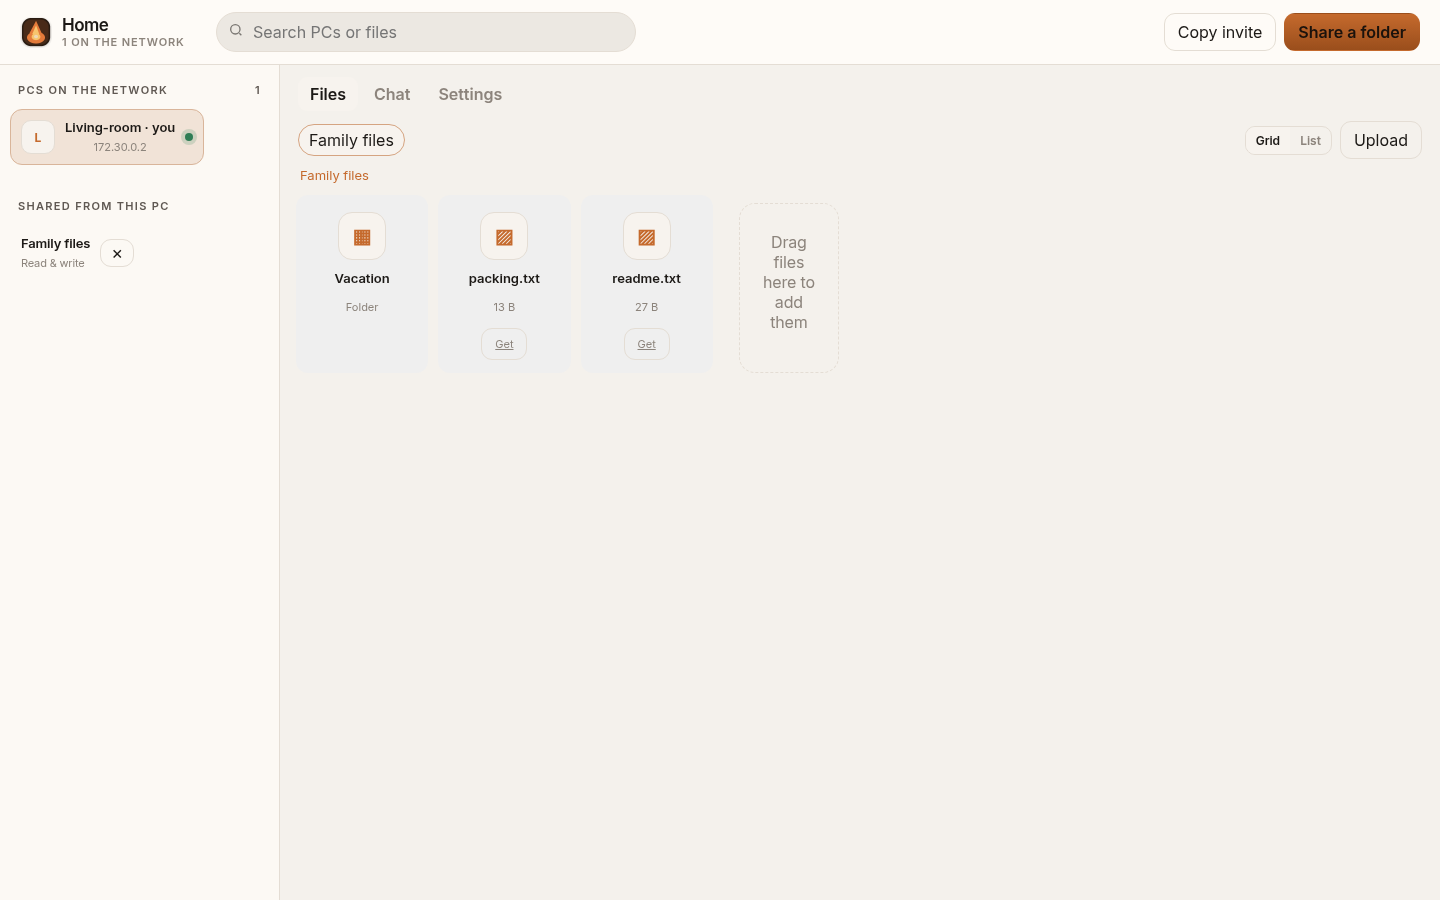
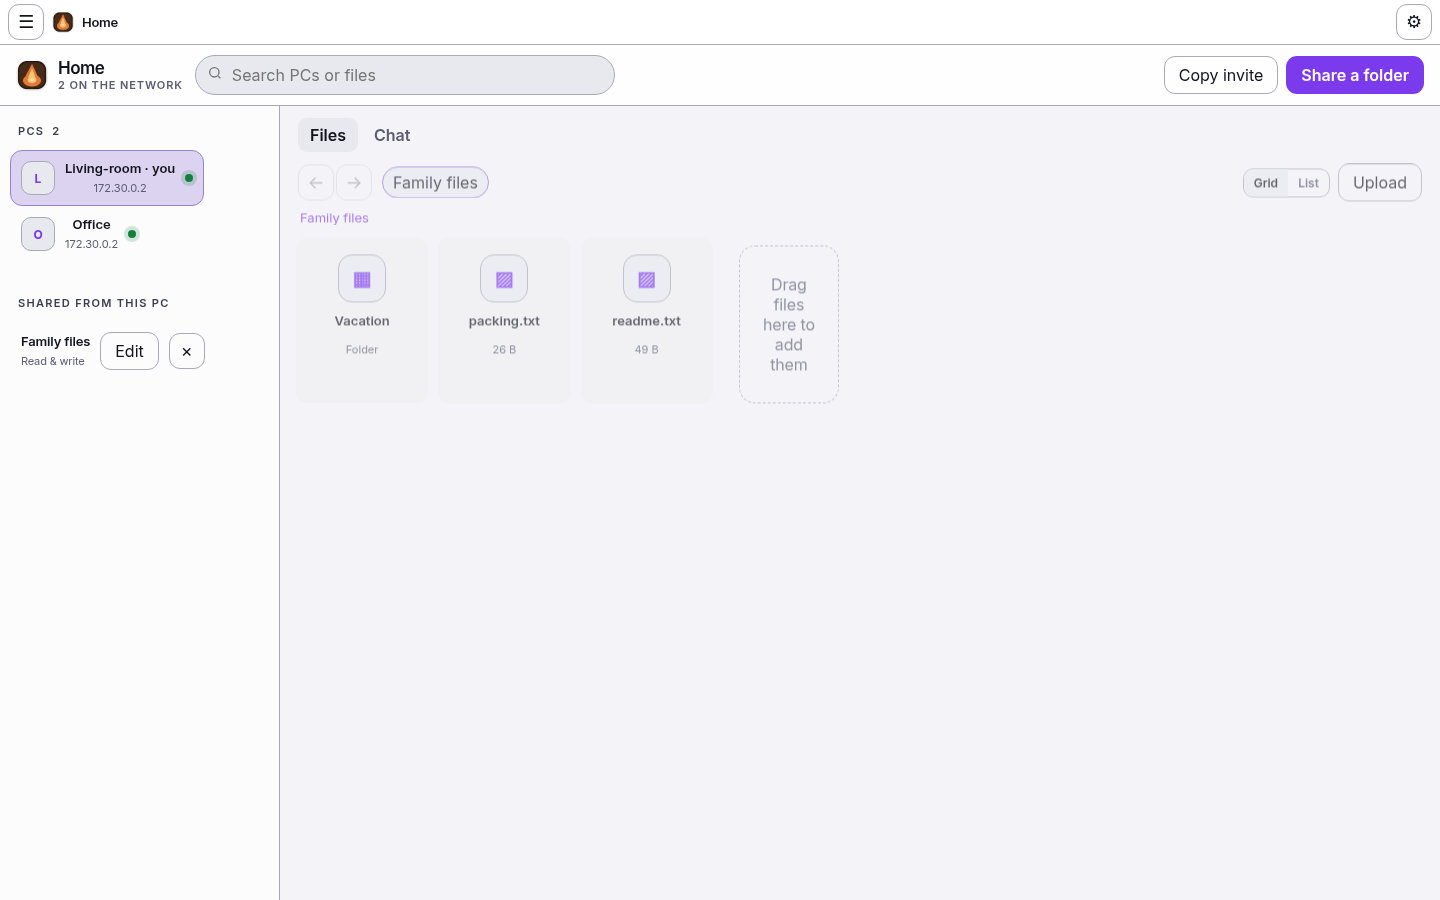
Document v0.3.7 features and refresh README screenshots (#12)
Update the feature list, auto-update notes, and FAQ for Browse/edit
shares, transfer limits, Clear downloads, RemedyAI themes, and the
v0.3.4 thumbprint workaround. Replace the README shots with 1440x900
captures of the current UI. Make unselected sidebar member buttons
transparent so Chrome's default white button background does not
cover peer names in dark themes.

diff --git a/hearth/ui/static/app.css b/hearth/ui/static/app.css
@@ -152,6 +152,7 @@ input[type="text"], input[type="password"], textarea, select { width: 100%; bord
 .folder-item .meta span { display: block; overflow: hidden; text-overflow: ellipsis; white-space: nowrap; }
 .folder-item:hover, .folder-item.active { background: color-mix(in srgb, var(--panel2) 80%, transparent); }
 button.member, button.share-tab, button.theme-card, button.quick-share, button.folder-item, button.file-tile { font: inherit; }
+button.member { background: transparent; color: inherit; }
 
 
 /* v0.3.4 chrome, settings, browse polish */

diff --git a/README.md b/README.md
@@ -22,14 +22,17 @@ Windows HomeGroup made it boringly easy to share Pictures and Documents across t
 - One-click Windows installer — no Python, no scripts, no git
 - Create a home group or join one already on the LAN with just the password
 - Invite codes as a fallback when a second router hides broadcasts
-- Share Documents, Pictures, or any folder (read-only or read and write)
+- Share Documents, Pictures, or any folder: **Browse…** opens the Windows folder picker, or type a path, pick a library, or drop a folder on the window
+- Edit a share at any time: rename it, **Browse…** to a new folder, switch read-only vs read & write, or unshare
 - Browse another PC, download in the background, or drag files onto a writable folder
 - Drag files out of Hearth onto the desktop or File Explorer (Windows)
+- Transfers show speed and time remaining; **Clear downloads** (or the × on a finished item) removes completed, failed, and canceled rows without deleting files
+- Optional download and upload speed limits in Settings → Transfers (Unlimited by default)
 - House chat, stored locally on each PC
 - System tray app with an Edge WebView2 window (falls back to the browser)
-- Always-visible menu and Settings (General, Sharing, Transfers, Network, Updates, About)
-- Dark and light mode that follows Windows
-- Auto-update from GitHub Releases, verified with SHA-256 and Authenticode
+- Always-visible menu and Settings (General, Sharing, Transfers, Network, Updates, About) with immediate apply and reset to defaults
+- RemedyAI color themes in Settings — System, Light, Dark, and the same palettes used in RemedyAI, including Dark Forest
+- Auto-update from GitHub Releases, verified with SHA-256 and the Hearth publisher thumbprint
 - Built for homes that have a second router, not only a single subnet
 
 ## Download and install
@@ -111,7 +114,11 @@ Or tick **Trust the Hearth publisher certificate** in the installer, or run `tru
 
 Installed copies check this repository’s [GitHub Releases](https://github.com/AhmiDarrow/Hearth/releases) (including prereleases) on startup and every few hours, and from **Settings → Updates** or **Check for updates** in the app or tray menu.
 
-When a newer version is found, Hearth notifies you. Click **Install update** to download `HearthSetup.exe`, verify it against `SHA256SUMS.txt` and the publisher certificate thumbprint, then open the official installer so you can review it. Updates are never installed silently. Automatic checks only run in the packaged Windows app. Set `HEARTH_NO_UPDATE=1` to disable checks (used by tests).
+When a newer version is found, Hearth notifies you. Click **Install update** to download `HearthSetup.exe`, verify it against `SHA256SUMS.txt` and the publisher certificate thumbprint (`C7B807D542B3BA7207AABED960F556B4DC85C02F`), then open the official installer so you can review it. The certificate is self-signed, so Windows may report the signature as not trusted; Hearth still accepts it when the thumbprint matches and the file hash is intact. Updates are never installed silently. Automatic checks only run in the packaged Windows app. Set `HEARTH_NO_UPDATE=1` to disable checks (used by tests).
+
+If the in-app updater cannot finish (a network error or a signature check that cannot be completed), it does not fail silently: you get a clear message, and a user-initiated check or Install update opens the [latest release page](https://github.com/AhmiDarrow/Hearth/releases/latest) so you can install by hand.
+
+**Upgrading from v0.3.4:** the updater in v0.3.4 (and the short-lived v0.3.5 / v0.3.6 builds, which are no longer published) cannot read that thumbprint on 64-bit Windows, so in-app Install update will keep being rejected. Quit Hearth from the tray, download [HearthSetup.exe](https://github.com/AhmiDarrow/Hearth/releases/latest/download/HearthSetup.exe), and run the wizard once. Later auto-updates work from v0.3.7 on.
 
 ## Uninstall
 
@@ -135,6 +142,9 @@ The other PC is probably behind NAT. Port-forward TCP 7474 and UDP 45454, or set
 
 **A second copy of Hearth opened instead of focusing the first.**  
 Hearth is meant to be a single instance. If this happens, fully **Quit** from the tray and start it again. Please open an issue if it keeps occurring.
+
+**In-app update says the installer is not Authenticode-signed, but I downloaded it from this repo.**  
+That happened on v0.3.4 (and the withdrawn v0.3.5 / v0.3.6 builds) on 64-bit Windows. Install [the latest release](https://github.com/AhmiDarrow/Hearth/releases/latest) once by hand; from v0.3.7 the updater reads the publisher thumbprint correctly. If a later check cannot finish, Hearth opens the release download page instead of failing silently.
 
 **How do I turn off auto-update?**  
 Uncheck **Check for updates automatically** in Settings → Updates, or set `HEARTH_NO_UPDATE=1` for the Hearth process. Install still requires your click. There is no cloud channel other than GitHub Releases.
